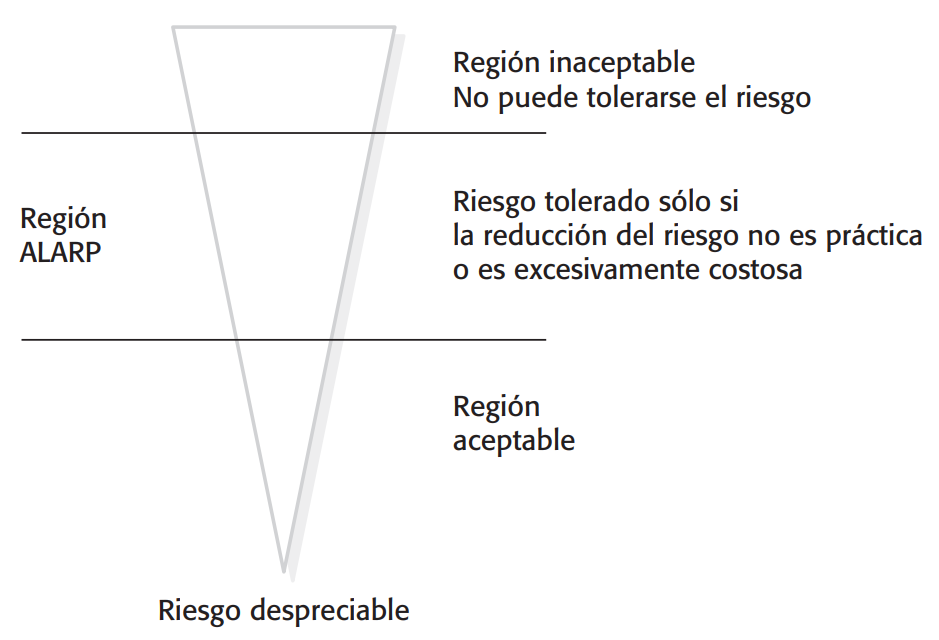
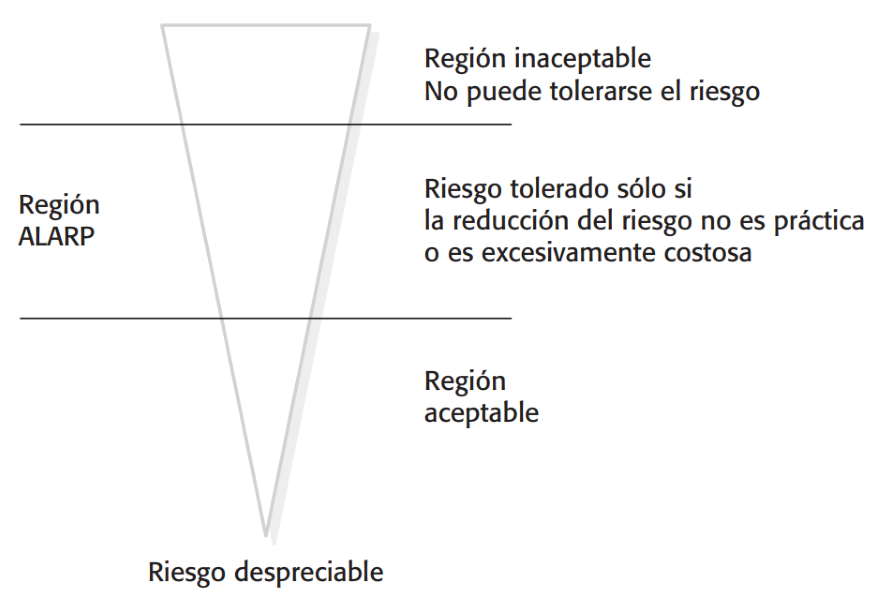
feat: add sistemas criticos

diff --git a/slides/U9_especificacion_sistemas_criticos.md b/slides/U9_especificacion_sistemas_criticos.md
@@ -221,11 +221,17 @@ Los peligros que sólo pueden surgir a partir de una combinación de causas raí
 
 ----
 
+![Árbol de Fallos](images/u9-sistemas-criticos/arbol-de-fallos.png)
+
+----
+
 ### Especificación de la protección
 4. **Reducción del riesgo:** Las estrategias a utilizar son:
 - Evitar el peligro
 - Detectar y eliminar el peligro
 - Limitar el daño
+
+<!-- CONTINUAR DESDE https://docs.google.com/document/d/1ApAfE0J5OFQHl53xwKUlJI6RAhv1y1tNMV_iakp9UrQ/edit?tab=t.0 -->
 
 ----
 
@@ -259,7 +265,84 @@ En estos casos, se está definiendo qué comportamiento debe tener el sistema pa
 
 ---
 
-### Especificación de la protección (Security)
+### Especificación de la fiabilidad
+La fiabilidad global de un sistema depende de:
+- La fiabilidad del hardware
+- La fiabilidad del software
+- La fiabilidad de los operadores del sistema
+
+La fiabilidad es un atributo **mensurable**. Por ejemplo, un requerimiento de fiabilidad sería que las fallas de sistema que requiera un reinicio (reboot) no deben ocurrir más de una vez por semana.
+
+----
+
+### Requerimientos de fiabilidad
+Los requerimientos de fiabilidad son de dos tipos: 
+- **Requerimientos no funcionales**, que definen el número de fallas aceptables durante el uso normal del sistema, o el tiempo en que el sistema no está disponible para su uso. Se trata de requerimientos de fiabilidad cuantitativos. 
+- **Requerimientos funcionales**, que definen las funciones del sistema y el software que evitan, detectan o toleran fallas del software y, de ese modo, aseguran que esto no conduzca a fallas de sistema.
+
+----
+
+### Fiabilidad: Requerimientos no funcionales
+Para evitar la sobreespecificación de la fiabilidad del sistema:
+1. Especifique los requerimientos de disponibilidad y fiabilidad para diferentes tipos
+de fallas. Debe haber una probabilidad de ocurrencia más baja para fallas graves que
+para fallas menores.
+2. Especifique por separado los requerimientos de disponibilidad y fiabilidad para diferentes servicios. Las fallas que afectan los servicios más críticos tienen que especificarse como menos probables que aquellas sólo con efectos locales. 
+3. Decida si realmente necesita fiabilidad en un sistema de software o si las metas de
+confiabilidad globales del sistema se logran en otras formas.
+
+----
+
+### Fiabilidad: Requerimientos funcionales
+Existen tres tipos de requerimientos de fiabilidad funcional para un sistema:
+1. **Requerimientos de comprobación** Identifican las comprobaciones de las entradas al sistema, para garantizar que las entradas incorrectas o fuera
+de rango se detecten antes de que las procese el sistema.
+2. **Requerimientos de recuperación** para ayudar al sistema a recuperarse luego de que ocurre una falla. Se conservan copias del sistema y sus
+datos, y se especifica la forma en que se restauran.
+3. **Requerimientos de redundancia**, aseguran que la falla en un solo componente no conduzca a una pérdida completa del servicio.
+
+----
+
+### Especificación de fiabilidad
+El proceso de especificación de fiabilidad puede basarse en el proceso general de especificación dirigido por riesgo: 
+1. **Identificación del riesgo:** Se examinan los tipos de fallas de sistema que originarían pérdidas económicas de cierto tipo. Los posibles tipos de fallas se agrupan en: Pérdida de servicio, Entrega incorrecta de servicio y Corrupción de Sistema y de datos.
+
+----
+
+### Especificación de fiabilidad
+<!-- .slide: style="font-size: 0.90em" -->
+2. **Análisis del riesgo:** Implica la estimación de los costos y las consecuencias de diferentes tipos de fallas de software y selecciona para un análisis ulterior las fallas de graves consecuencias.
+3. **Descomposición de riesgo:** Se realiza un análisis de la causa raíz de las probables fallas de sistema, que suelen depender de decisiones de diseño del mismo. 
+4. **Reducción del riesgo:** Deben generarse especificaciones cuantitativas de fiabilidad que establezcan las probabilidades aceptables de los diferentes tipos de fallas. Hay que tomar en cuenta los costos de las fallas y la probabilidad de que ocurra. 
+
+----
+
+### Métricas de fiabilidad
+<!-- .slide: style="font-size: 0.80em" -->
+1. **Probabilidad de falla a pedido** (POFOD, Probability Of Failure
+On Demand). Define la probabilidad de que la demanda por un
+servicio de un sistema derive en una falla del sistema. Ejemplo, POFOD = 0.001, es decir, puede fallar una de cada 1,000 transacciones
+2. **Tasa de ocurrencia de fallas** (ROCOF, Rate Of Occurrence Of Failures) Esta métrica establece el número probable de fallas de sistema que se observan
+en relación con cierto tiempo (por ejemplo, una hora), o el número de ejecuciones del
+sistema. En el ejemplo anterior, la ROCOF es 1/1,000. El recíproco de la ROCOF es
+el tiempo medio para la falla (MTTF, por las siglas de Main Time To Failure), que a
+veces se usa como una métrica de fiabilidad. El MTTF es el promedio de unidades de
+tiempo entre las fallas observadas de sistema. Por lo tanto, una ROCOF de dos fallas
+por hora significa que el tiempo medio de la falla es de 30 minutos.
+
+----
+
+### Métricas de fiabilidad
+<!-- .slide: style="font-size: 0.80em" -->
+3. **Disponibilidad (AVAIL)** Refleja la capacidad de
+entregar servicios cuando se le solicitan. AVAIL es la probabilidad de que un sistema esté en operación cuando se haga una demanda por servicio. Una disponibilidad de 0.9999 significa que, en promedio, el sistema estará disponible
+el 99.99% del tiempo de operación.
+
+![Disopnibilidad](images/u9-sistemas-criticos/disponibilidad.png)
+
+---
+
+### Especificación de la seguridad  
 <!-- .slide: style="font-size: 0.90em" -->
 La **especificación de la protección** define los requerimientos destinados a proteger el sistema y su información frente a accesos, modificaciones o acciones no autorizadas.
 
